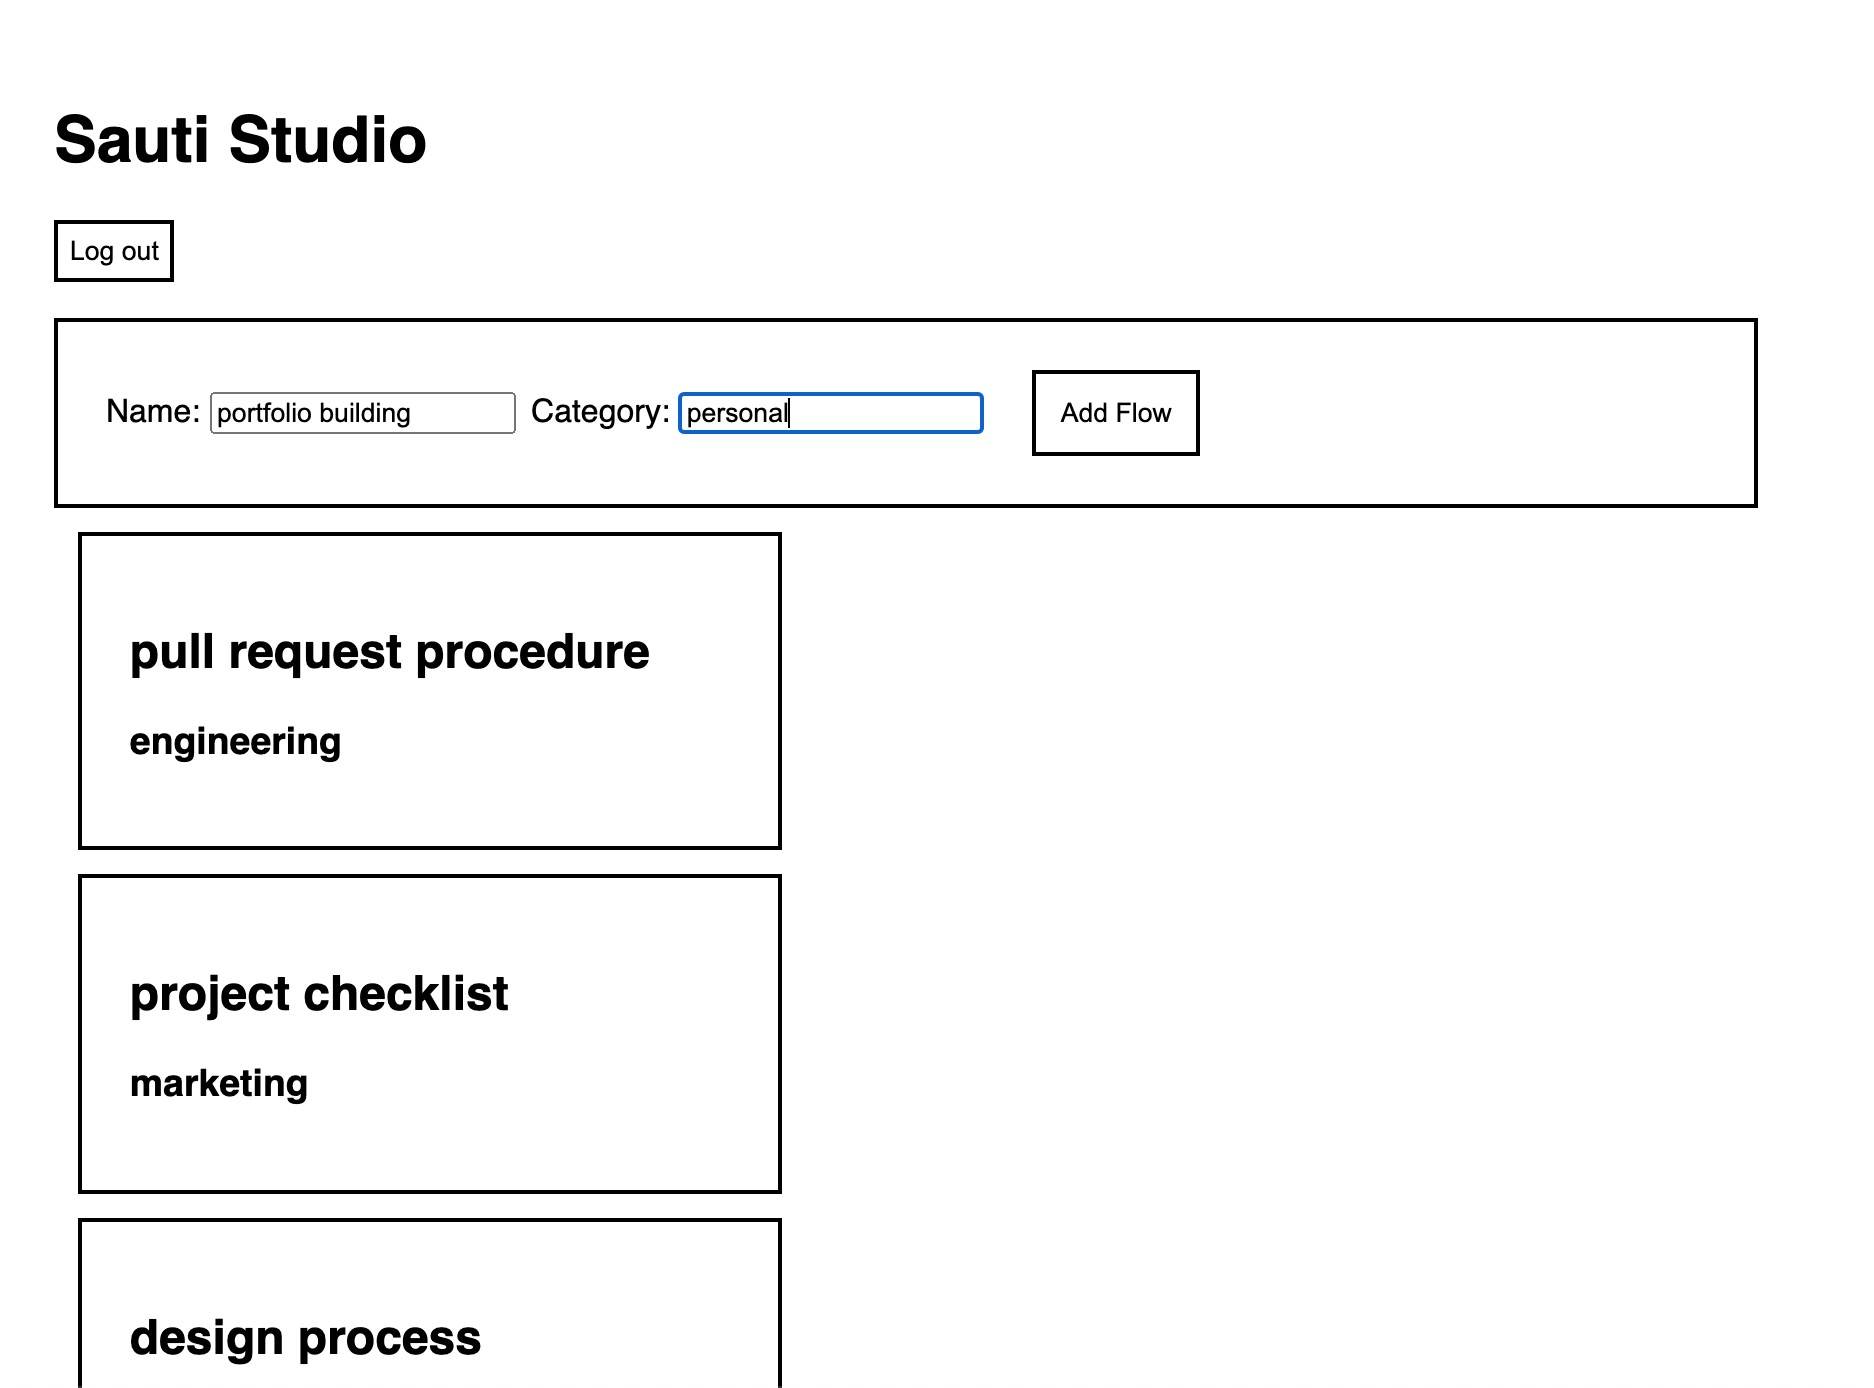
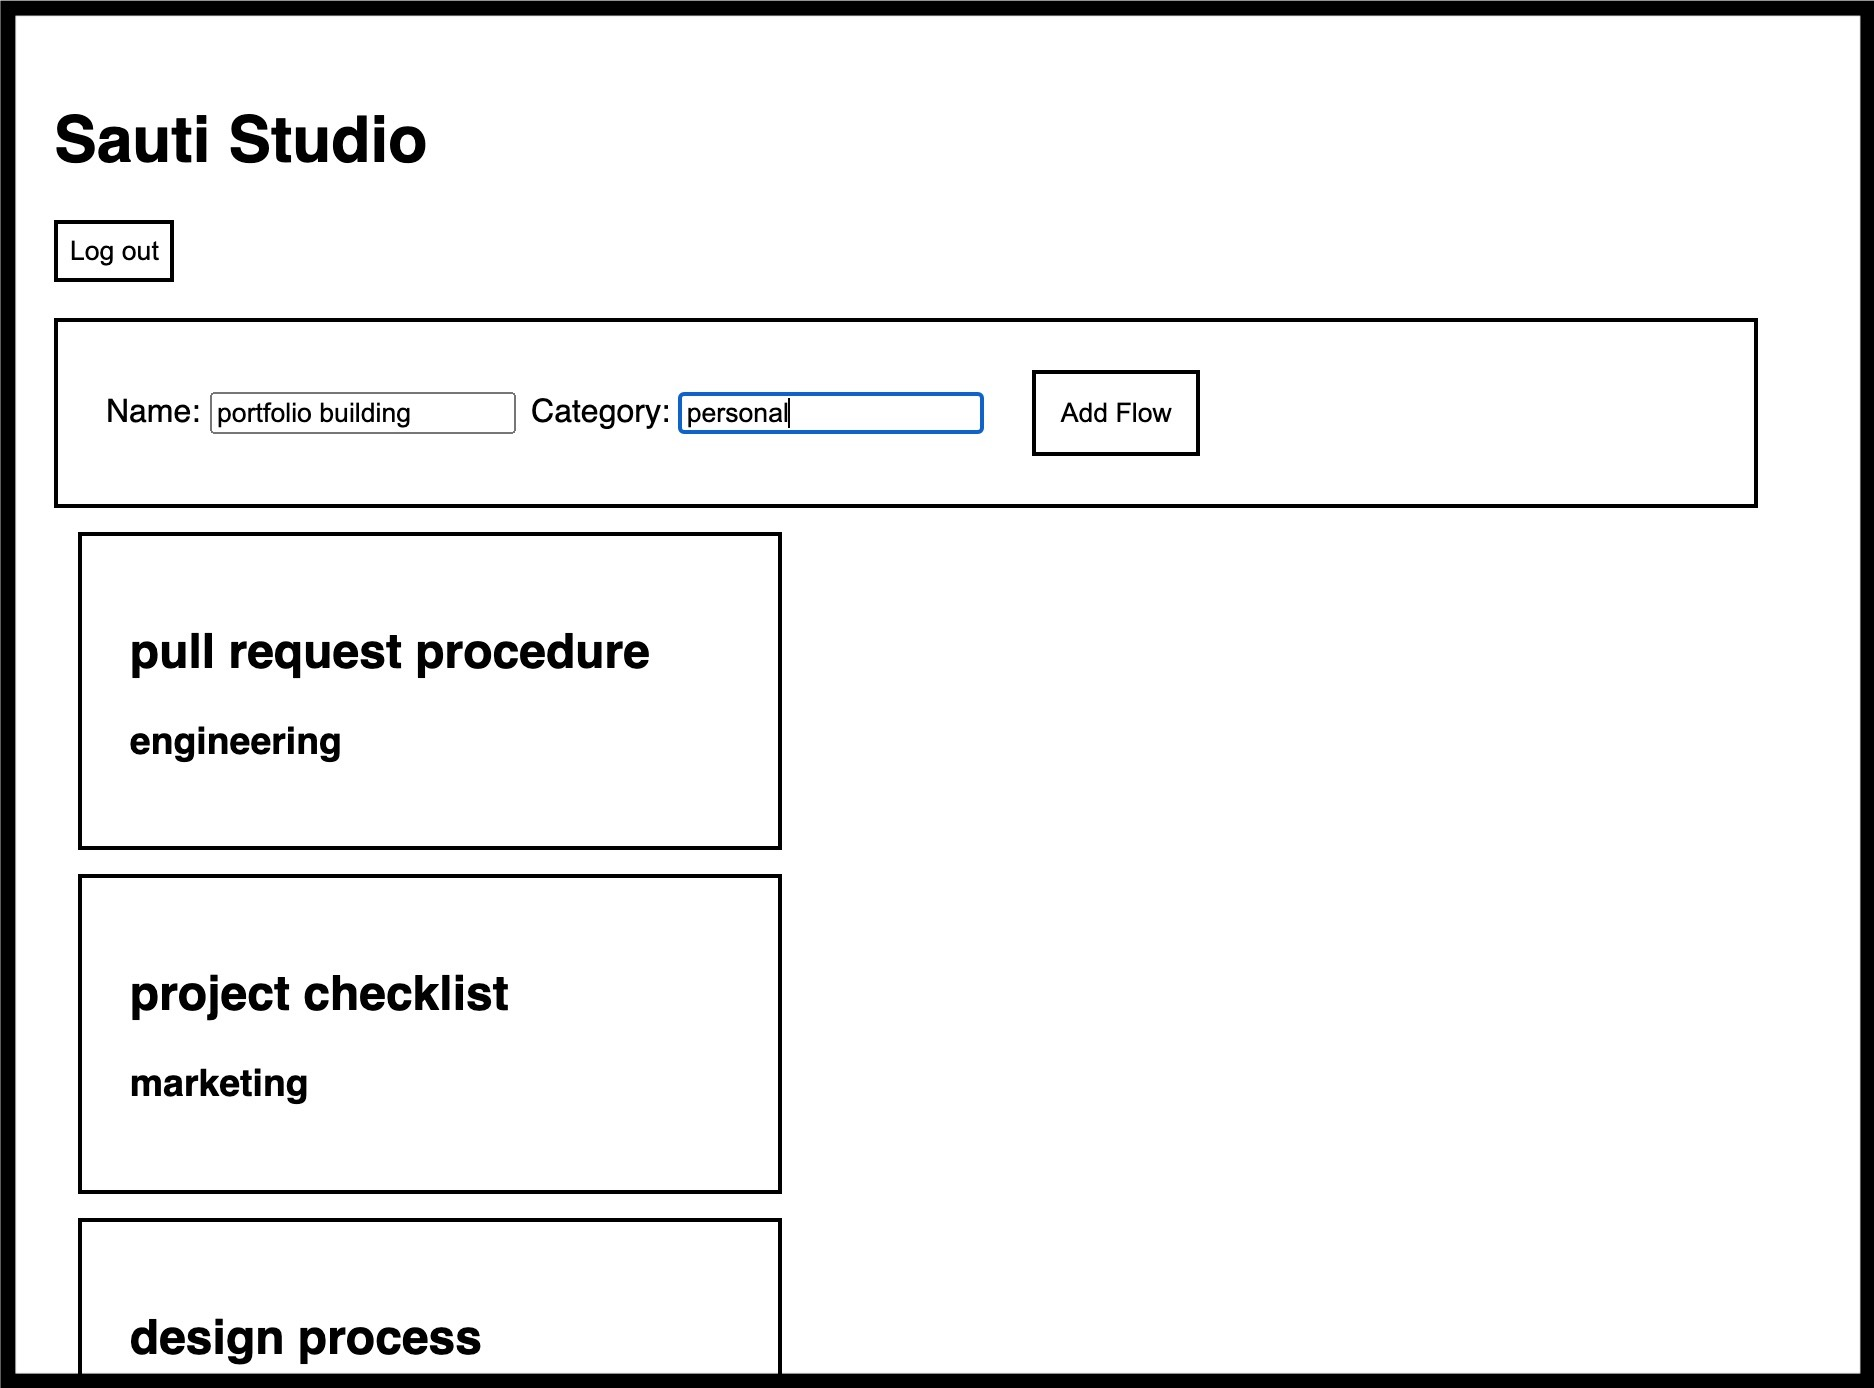
adds image with border

Changed region(s): [[0.0, 0.0, 1.0, 1.0]]

diff --git a/README.md b/README.md
@@ -21,11 +21,9 @@ The back-end API is written in `Node`, `Express`, and `Knex`. It uses a `SQLite3
 
 ## Contributors
 
-| [Dan Hauer](https://github.com/dlhauer) |
-| :-------------------------------------: |
+[Dan Hauer](https://github.com/dlhauer)
 
-
-| [<img src="https://avatars0.githubusercontent.com/u/50860480?s=460&u=ab6997720219f59a214336ceb6088c308749c1f8&v=4" width = "200" />](https://github.com/dlhauer)
+[<img src="https://avatars0.githubusercontent.com/u/50860480?s=460&u=ab6997720219f59a214336ceb6088c308749c1f8&v=4" width = "200" />](https://github.com/dlhauer)
 
 ---
 
